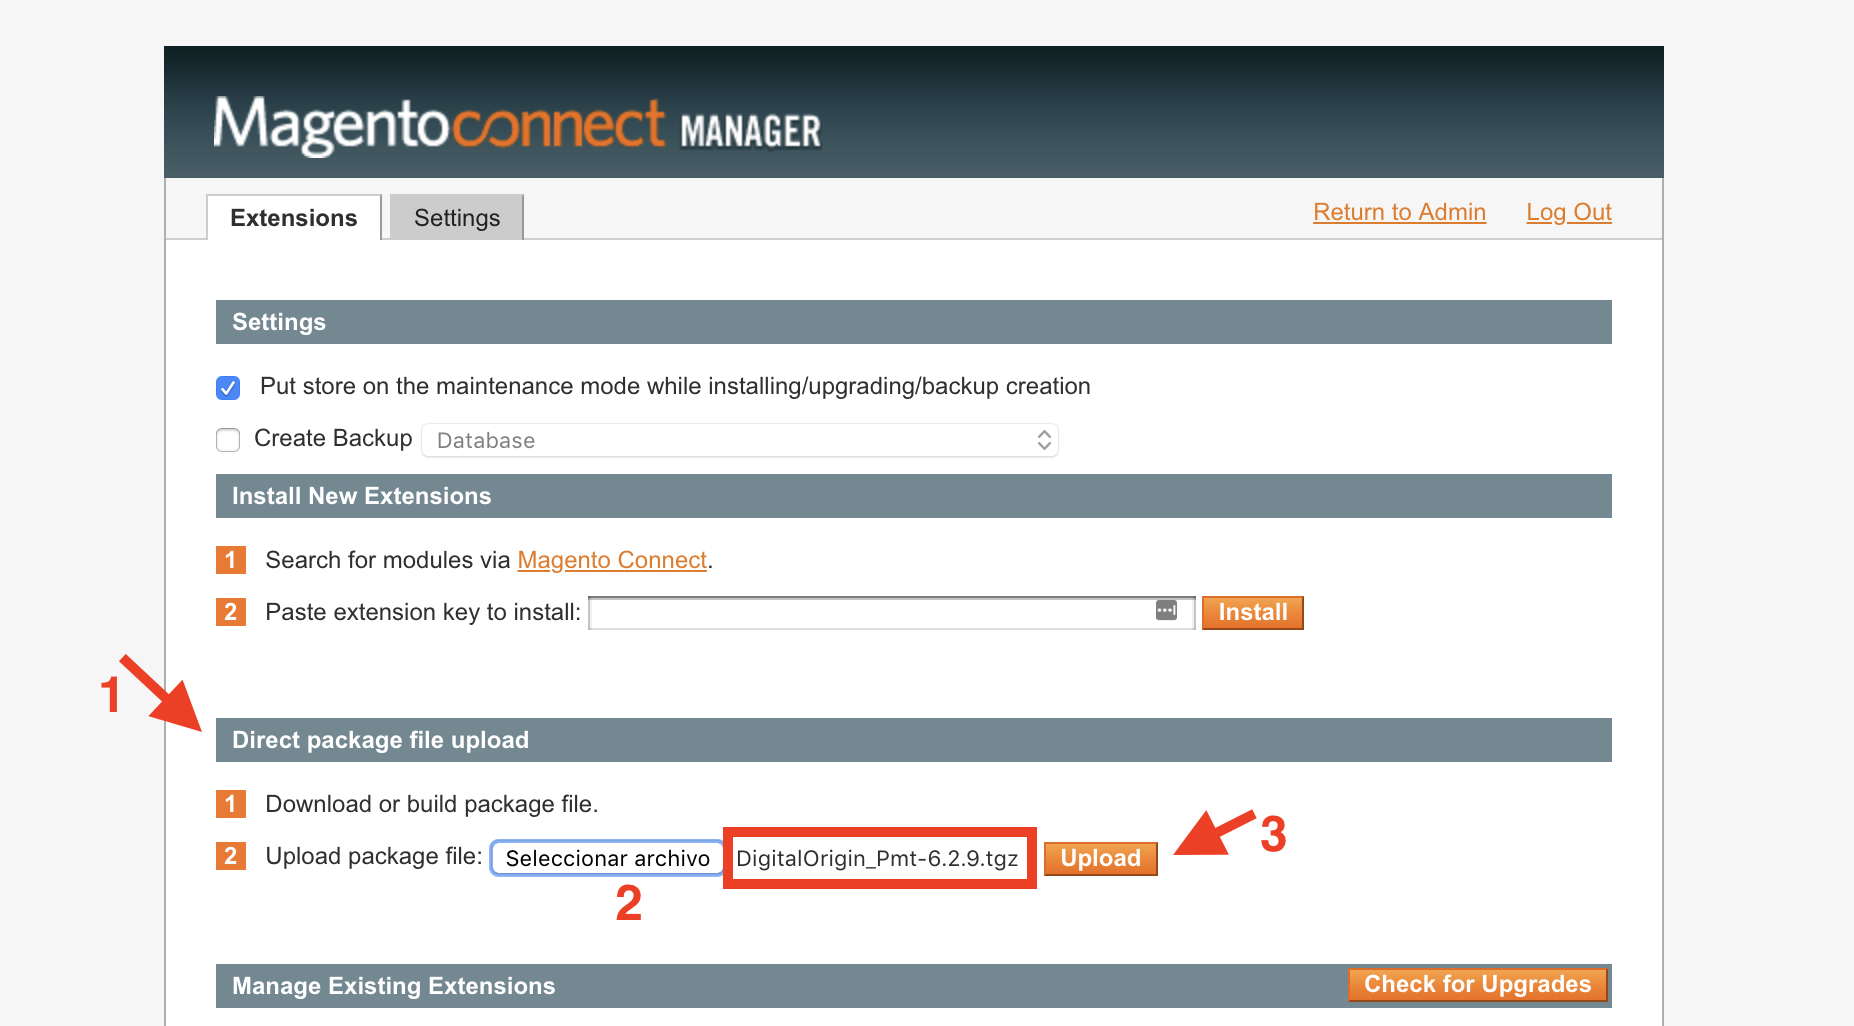
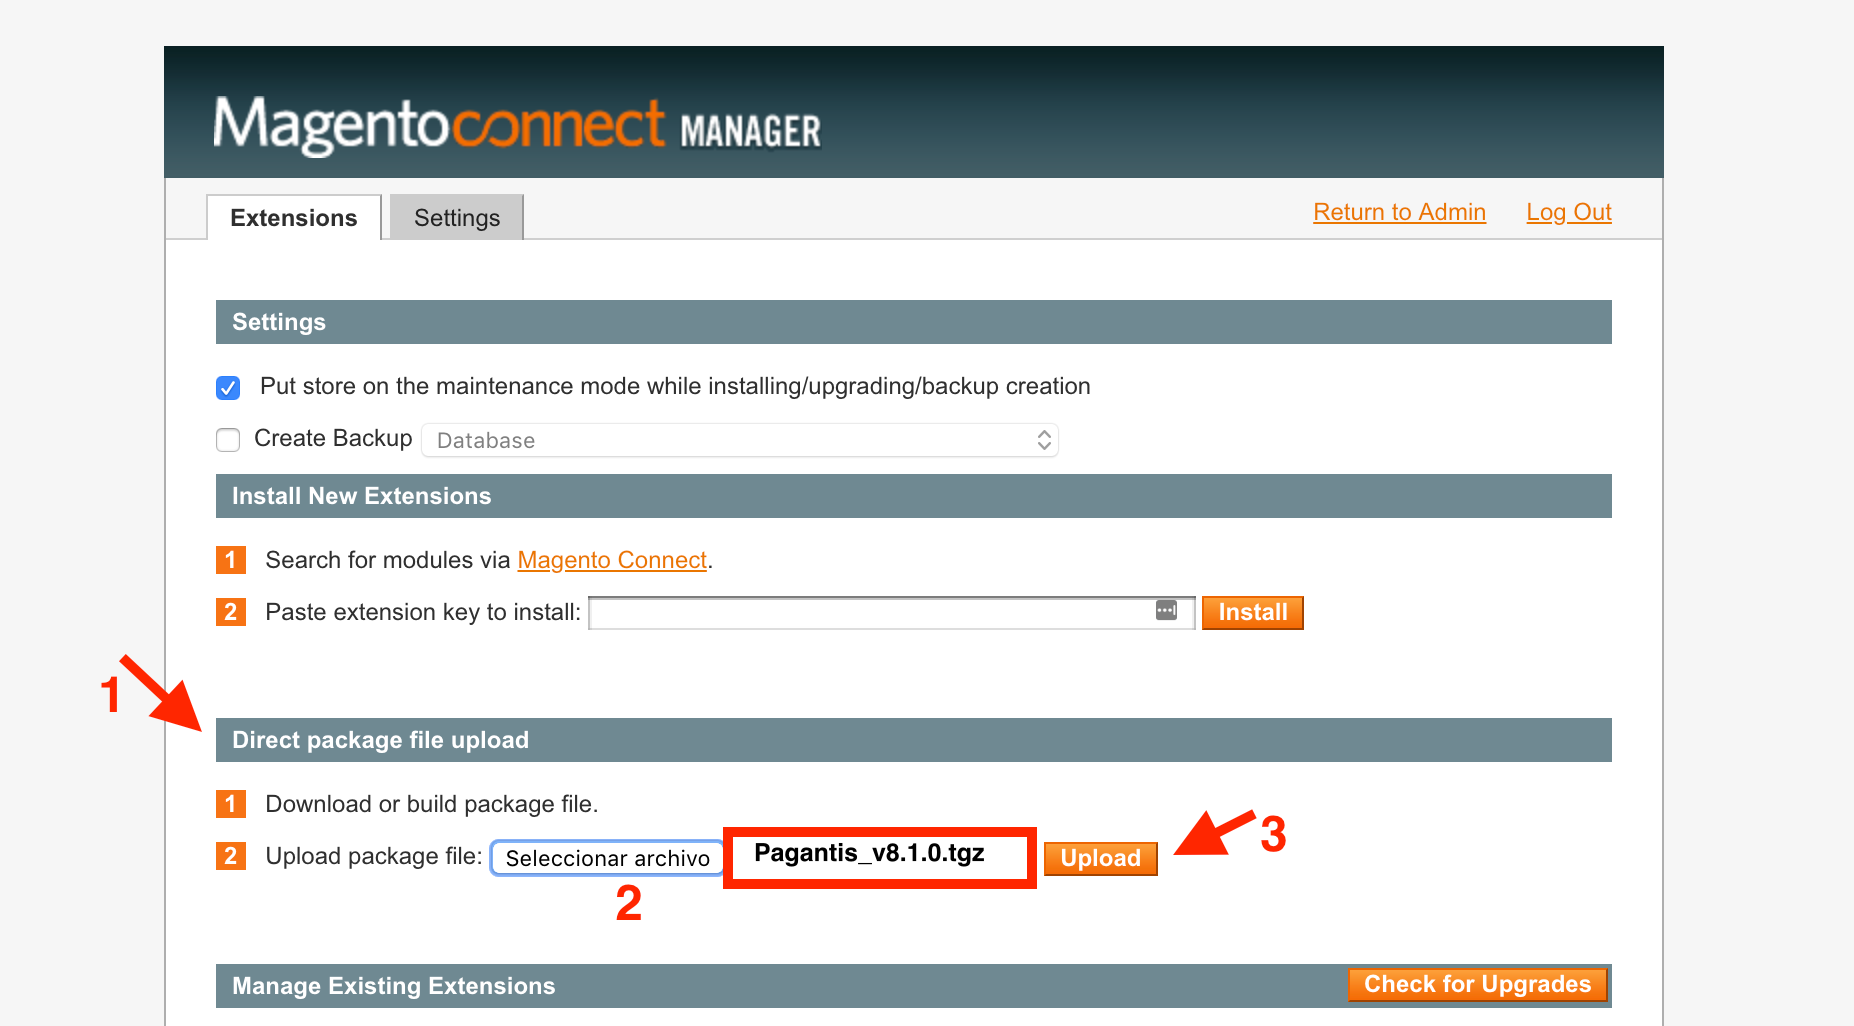
Instalation

diff --git a/Documentation/install.md b/Documentation/install.md
@@ -10,10 +10,13 @@ To access to Pagantis admin panel, we need to open the Magento admin panel and f
 2 – Login with your credentials 
 ![Step 2](./install-step2.png?raw=true "Step 2")
 
-3 – Upload the package (.tgz file)
-![Step 3](./install-step3.png?raw=true "Step 3")
+3. Download the zip file from [here](https://github.com/pagantis/magento-1x/releases/latest). The name could be different according the last version of the plugin(Vx.x.x)
+![Step 3](./install-step2b?raw=true "Step 3")
 
-4 – Check all goes correctly
-![Step 3](./install-step4.png?raw=true "Step 3")
+4 – Upload the package (.tgz file)
+![Step 4](./install-step3.png?raw=true "Step 4")
+
+5 – Check all goes correctly
+![Step 5](./install-step4.png?raw=true "Step 5")
 
 After doing all this, you can configure the module, to read more about how to do it [configuration section](/Documentation/configuration.md).
